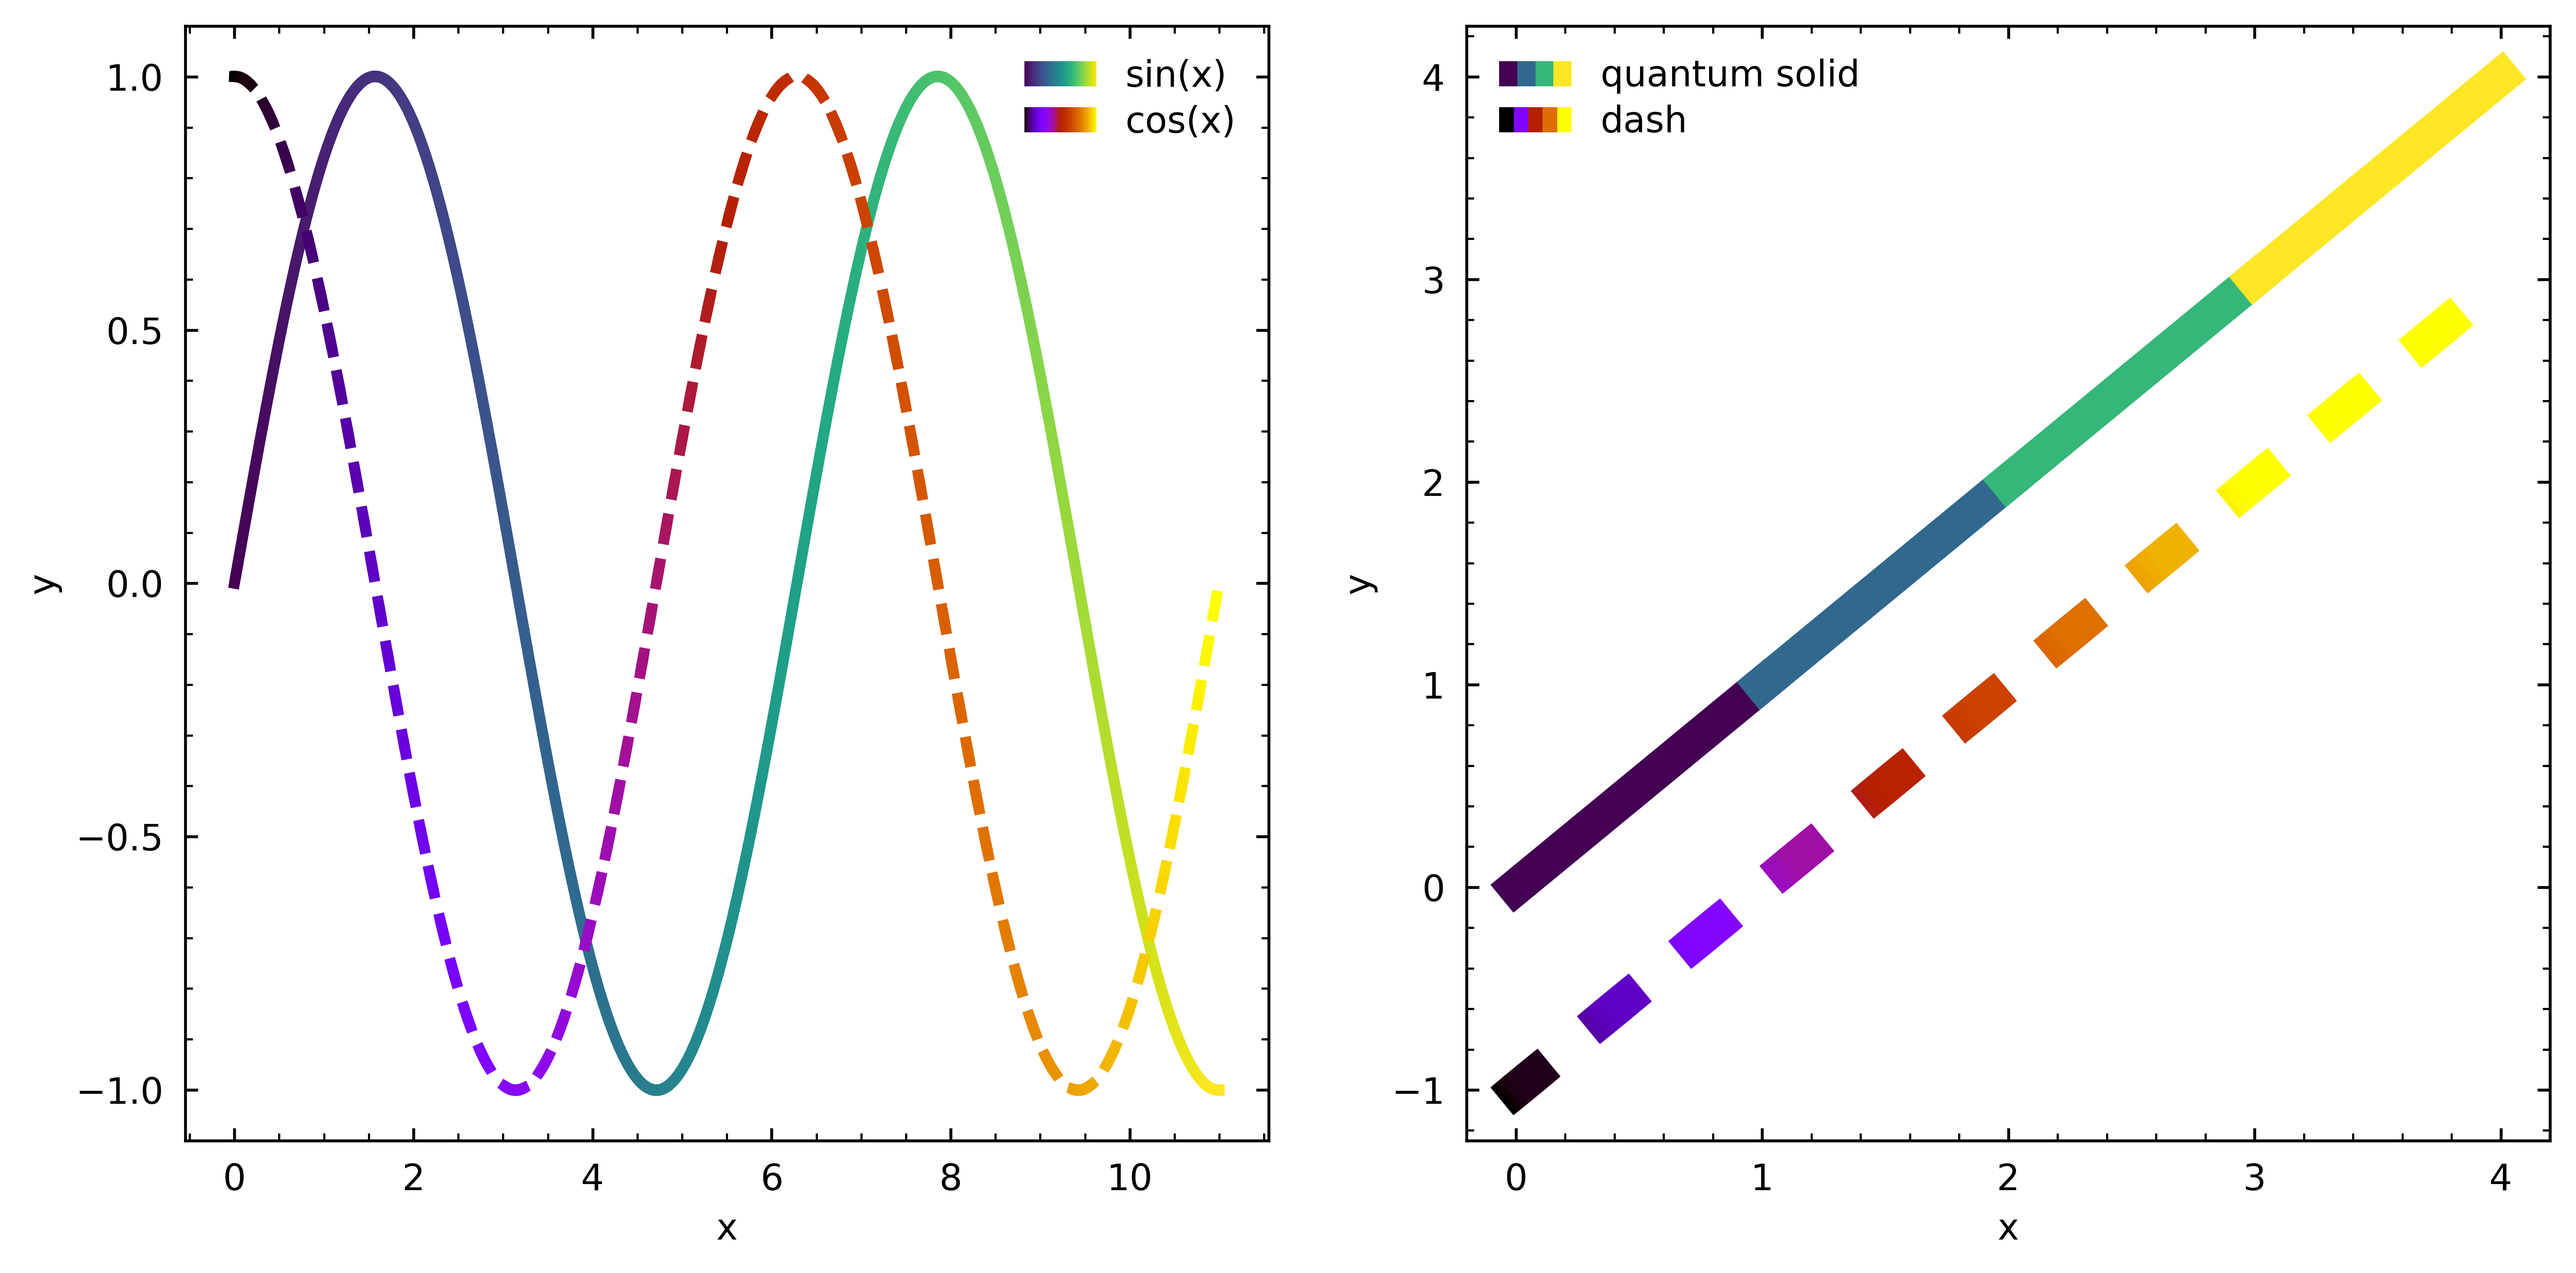
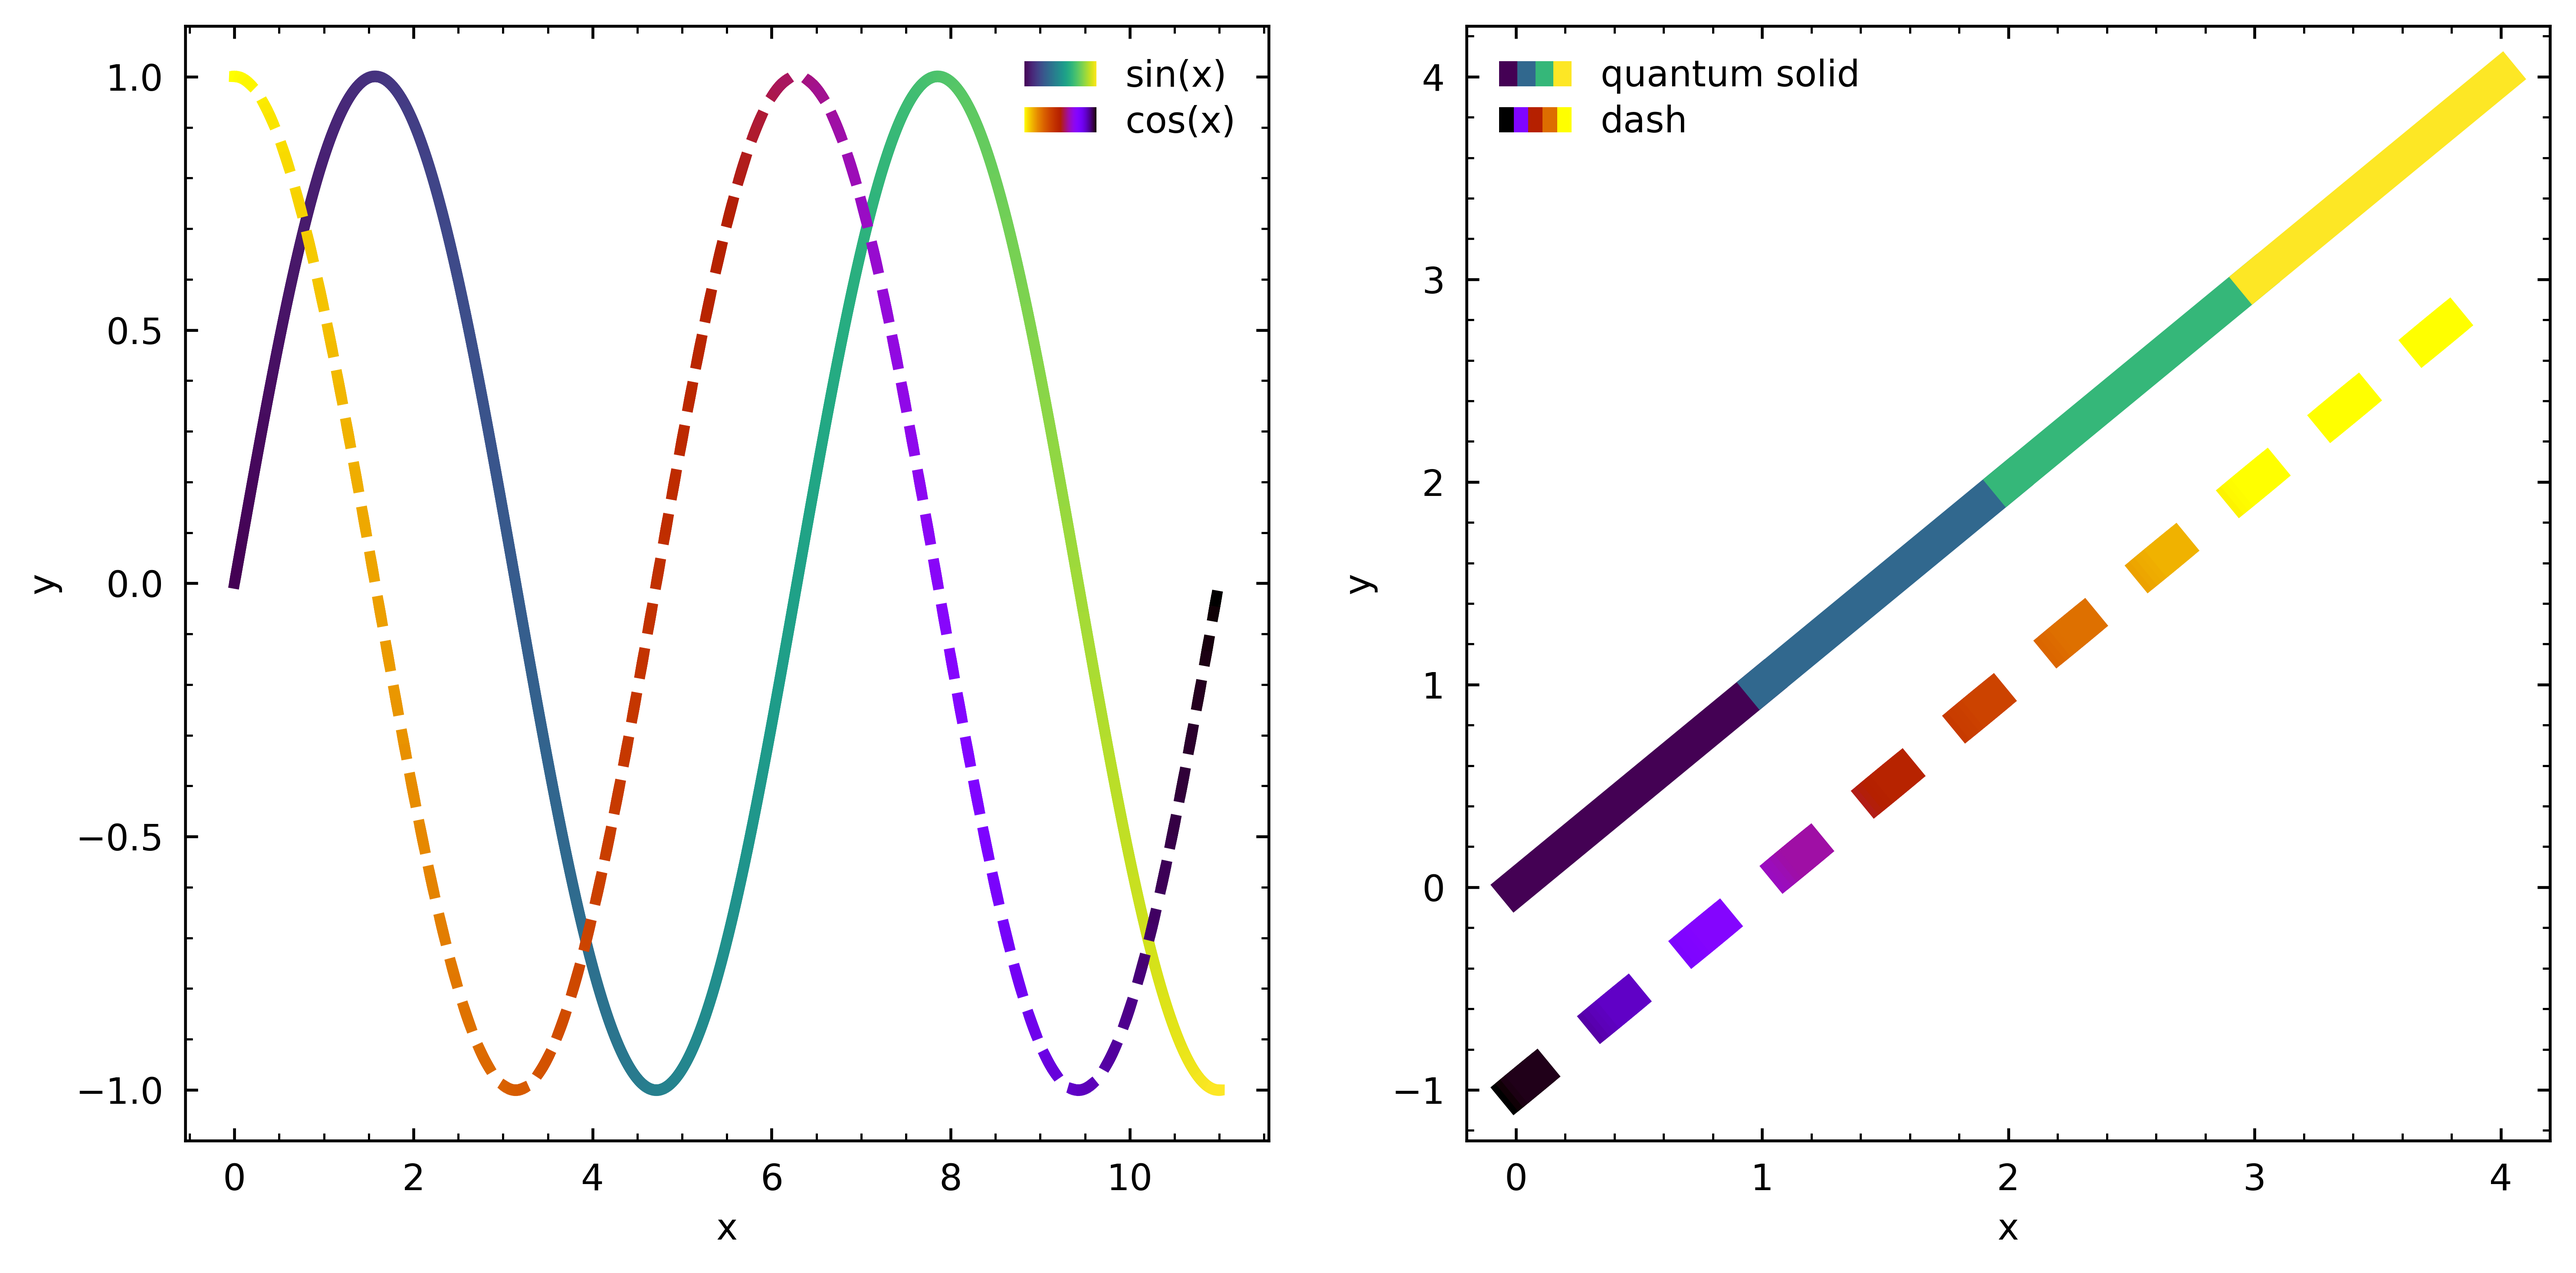
demo: update 🧪

diff --git a/demo/4_line_colormap/line_colormap.py b/demo/4_line_colormap/line_colormap.py
@@ -16,7 +16,10 @@ axes = gs.axes(store=True, size=[10, 5], mosaic="AB")
 # Line plot with solid colormap
 gs.line_colormap_solid(0, x, u, x, label="sin(x)", lw=3)
 # Line plot with dashed colormap
-gs.line_colormap_dashed(0, x, v, x, label="cos(x)", lw=3, cmap="gnuplot")
+gs.line_colormap_dashed(
+    0, x, v, x[::-1,], label="cos(x)", lw=3, cmap="gnuplot", reverse=True
+)
+
 
 # Line plot with solid colormap
 gs.line_colormap_solid(1, n, n, n, label="quantum solid", lw=10)
